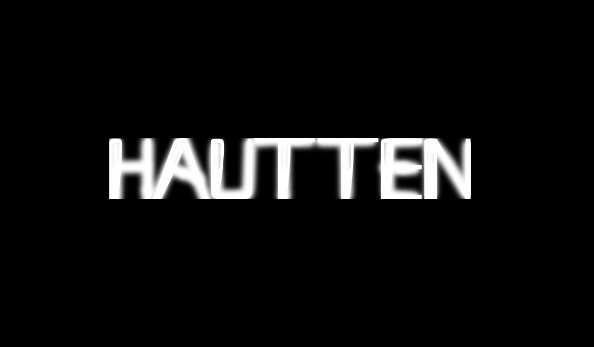
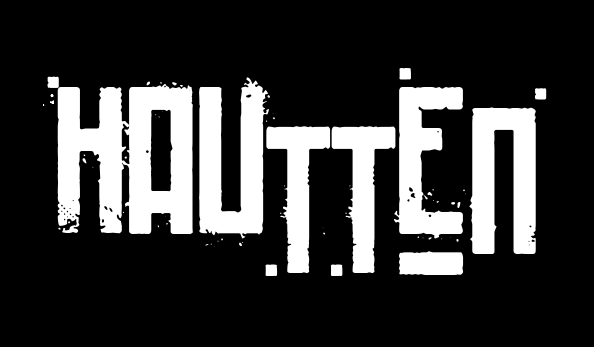
Add files via upload

Changed region(s): [[0.0606, 0.1729, 0.9394, 0.8069]]

diff --git a/index3.html b/index3.html
@@ -4,11 +4,18 @@
     <meta charset="UTF-8">
     <meta http-equiv="X-UA-Compatible" content="IE=edge">
     <meta name="viewport" content="width=device-width, initial-scale=1.0">
-    <title>Document</title>
+    <title>Specctro</title>
     <link rel="stylesheet" href="style.css">
+    <link rel="icon" href="img/specctrum.png">
 </head>
 <body id="cuerpo">
-    <div id="titulochafa"><h1 id="ciber">CYBER SPECCTRO</h1></div>
+    <br>
+    <div id="titulochafa"><h1 id="ciber">SPECCTRO</h1></div>
+    <br>
+    <div id="portrait">
+        <img id="logo-portrait" src="img/logo.png" alt="">
+    </div>
+    <br>
     <div id="inicial">
         <div id="inicio"><a href="index.html">Inicio</a></div>
         <div id="inicio"><a href="index2.html">Otros</a></div>
@@ -21,8 +28,11 @@
     <div id="titulos">
         <div id="juegolucky"><a href="https://specctro.itch.io/lucky-freedom-hautten" id="juego"> Lucky Freedom (Completo) </a>
             <br><img src="https://img.itch.zone/aW1hZ2UvNDk3NzkzLzc4MDgxODQucG5n/original/PLOqCW.png" alt=""></div>
-        <div id="juego"><a href="#" id="juego"> Hautten (Pausado) </a>
+        <div id="juego"><a href="#" id="juego"> Hautten (Planes) </a>
             <br><img src="img/title.png" alt=""></div>
+        <div id="juego"><a href="#" id="juego"> Claymorte (Prototipo temprano) </a>
+            <br><img src="img/claymorte logo.png" alt=""></div>
+        
     </div>
     
 </body>

diff --git a/style.css b/style.css
@@ -1,5 +1,14 @@
 @import url('https://fonts.googleapis.com/css2?family=Source+Code+Pro:wght@200&family=VT323&display=swap');
 
+* {
+    margin: 0; padding: 0;
+    box-sizing: border-box;
+    text-decoration: none;
+
+
+}
+
+
 #cuerpo {
     background-image:linear-gradient(rgba(6, 1, 17, 0.993),rgba(6, 1, 17, 0.993)),url(https://media.discordapp.net/attachments/496044498401361920/928464815863787570/noise.png);
     background-size: cover;
@@ -97,19 +106,54 @@ a {
 
 }
 
-#juegolucky {
-    font-family: VT323;
-    color: rgb(197, 197, 231);
-    text-align: center;
-    font-size: 25px;
-    
-}
-
 #juegolucky :hover {
     font-family: VT323;
     color: rgb(191, 31, 212);
     text-align: center;
     font-size: 25px;
+
+}
+
+#juegolucky {
+
+    font-family: VT323;
+    color: rgb(197, 197, 231);
+    text-align: center;
+    font-size: 25px;
+
+}
+
+#juego :hover {
+    font-family: VT323;
+    color: rgb(191, 31, 212);
+    text-align: center;
+    font-size: 25px;
+
+}
+
+/*Imagen promocional*/
+
+#portrait {
+
+    display: flex;
+    align-items: center;
+    justify-content: center;
+
+}
+
+
+#image-portrait {
+    filter: blur(2.5px);
+    filter: opacity(0.1) drop-shadow(0 0 0 rgba(6, 1, 17, 0.993));
+    
+}
+
+#logo-portrait {
+
+    height: 120px;
+    width: 120px;
+    border-radius: 10px;
+
 
 }
 

diff --git a/index.html b/index.html
@@ -5,10 +5,17 @@
     <meta http-equiv="X-UA-Compatible" content="IE=edge">
     <meta name="viewport" content="width=device-width, initial-scale=1.0">
     <link rel="stylesheet" href="style.css">
-    <title>Cyberspecctro</title>
+    <link rel="icon" href="img/specctrum.png">
+    <title>Specctro</title>
 </head>
 <body id="cuerpo">
-    <div id="titulochafa"><h1 id="ciber">CYBER SPECCTRO</h1></div>
+    <br>
+    <div id="titulochafa"><h1 id="ciber">SPECCTRO</h1></div>
+    <br>
+    <div id="portrait">
+        <img id="logo-portrait" src="img/logo.png" alt="">
+    </div>
+    <br>
     <div id="inicial">
         <div id="inicio"><a href="index.html">Inicio</a></div>
         <div id="inicio"><a href="index2.html">Otros</a></div>
@@ -16,8 +23,11 @@
     </div>
     <br><br>
     <div id="ventanilla">
-        <p id="texto">Bienvenidos a Cyberspecctro!!. Encontrarás contenido variado en esta página, Tenemos una lista de juegos y las redes sociales.
-            Si quieres contactarte conmigo, este es mi correo electrónico: theneony.ctm@gmail.com  "o"  aaronpereira128@gmail.com.</p>
+        <p id="texto">HAUTTEN...</p>
+    </div>
+    <br>
+    <div id="portrait">
+        <img id="image-portrait" src="img/neon2.png" alt="">
     </div>
     <br><br><br><br>
     <div id="boton">

diff --git a/index2.html b/index2.html
@@ -5,10 +5,17 @@
     <meta http-equiv="X-UA-Compatible" content="IE=edge">
     <meta name="viewport" content="width=device-width, initial-scale=1.0">
     <link rel="stylesheet" href="style.css">
-    <title>Cyberspecctro</title>
+    <link rel="icon" href="img/specctrum.png">
+    <title>Specctro</title>
 </head>
 <body id="cuerpo">
-    <div id="titulochafa"><h1 id="ciber">CYBER SPECCTRO</h1></div>
+    <br>
+    <div id="titulochafa"><h1 id="ciber">SPECCTRO</h1></div>
+    <br>
+    <div id="portrait">
+        <img id="logo-portrait" src="img/logo.png" alt="">
+    </div>
+    <br>
     <div id="inicial">
         <div id="inicio"><a href="index.html">Inicio</a></div>
         <div id="inicio"><a href="index3.html">Juegos</a></div>
